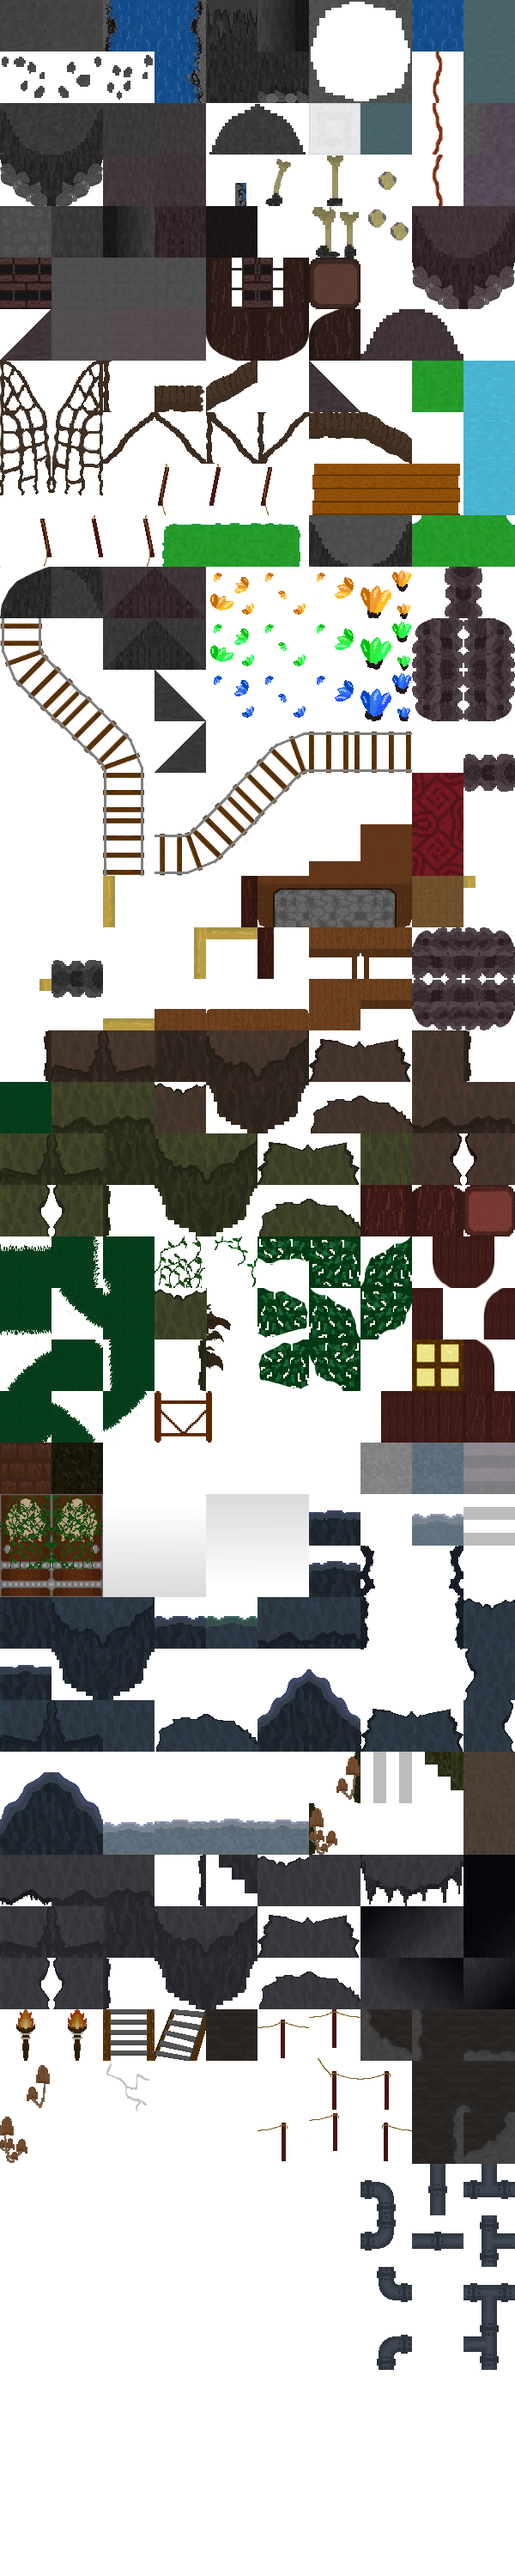
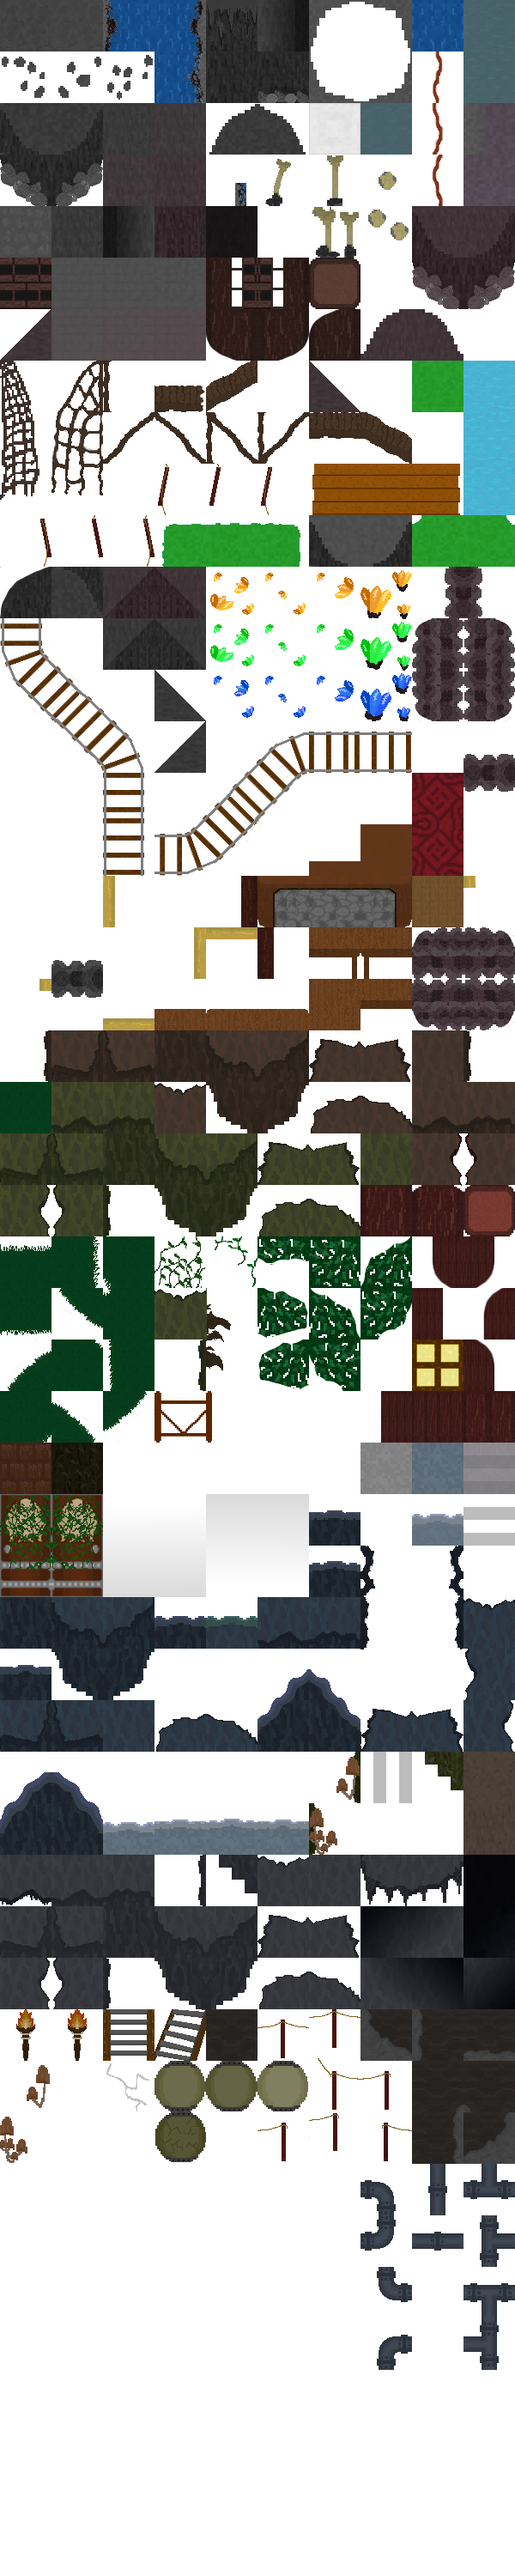
Added lamps + another rock spike variation to caves!

Changed region(s): [[0.3, 0.775, 0.6, 0.837], [0.0, 0.124, 0.12, 0.217]]

diff --git a/gamedata/areadata.js b/gamedata/areadata.js
@@ -12042,9 +12042,12 @@ caves: {
 		tsize: 60,
 		tilesPerRow: 10,
 		solidTiles: [23, 24, 33, 34],
+		objectTiles: [386],
 		pathTiles: [],
 		waterTiles: [28, 10, 20],
-		lightEmitTiles: [{tile: 391, brightness: 0.8, radius: 150}, {tile: 392, brightness: 0.8, radius: 150}],
+		lightEmitTiles: [{tile: 391, brightness: 0.8, radius: 150},
+			{tile: 406, brightness: 0.9, radius: 500}, {tile: 405, brightness: 0.5, radius: 100}
+		],
 		animateTiles: [{
 			// water
 			tiles: [28, 10, 20],
@@ -12059,6 +12062,11 @@ caves: {
 			// torches
 			tiles: [391, 392],
 			animateTime: 400,
+		},
+		{
+			// lamps
+			tiles: [404, 405],
+			animateTime: 1200,
 		}
 	],
 		objectTiles: [36, 37, 47], // bones	
